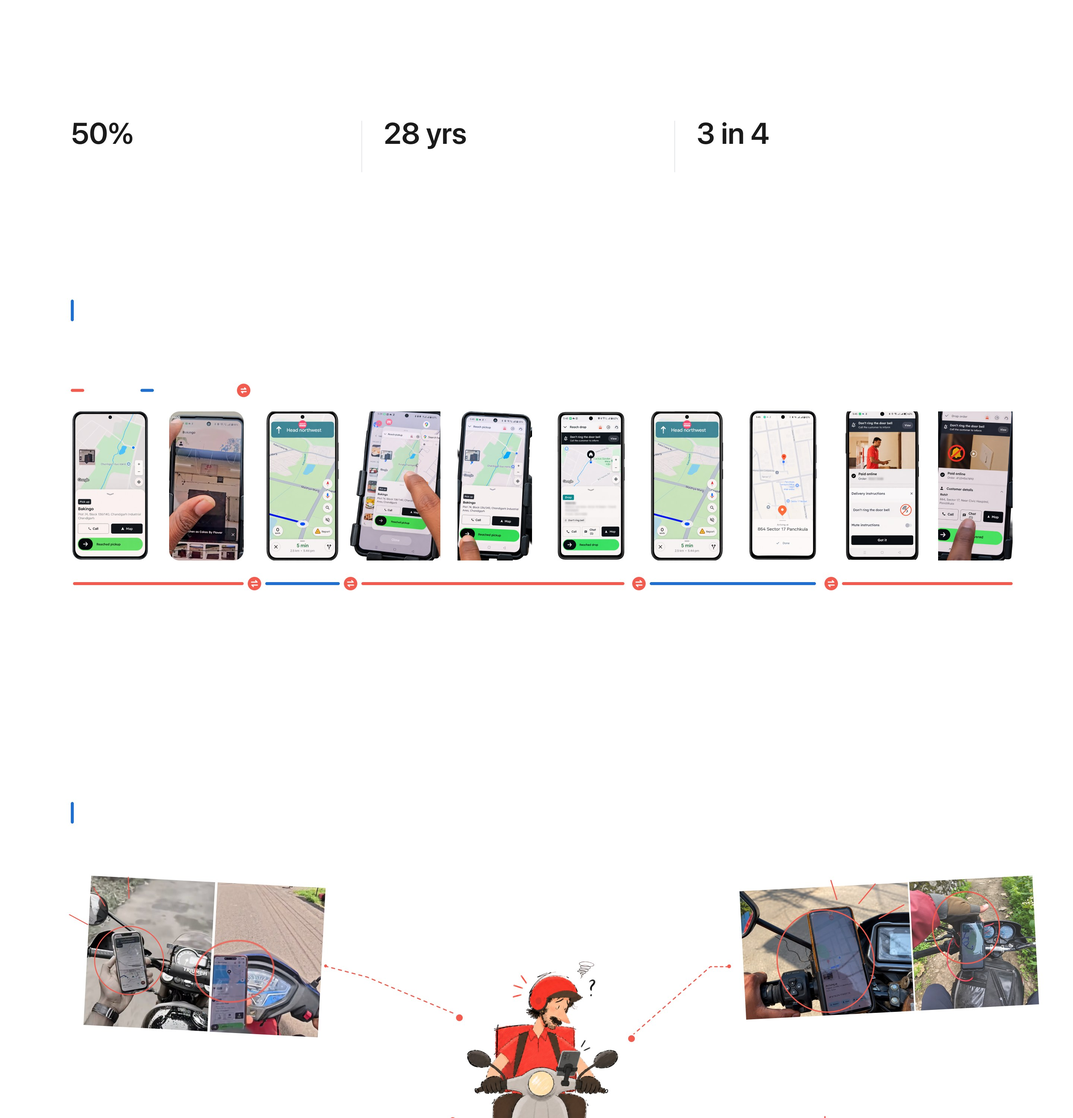
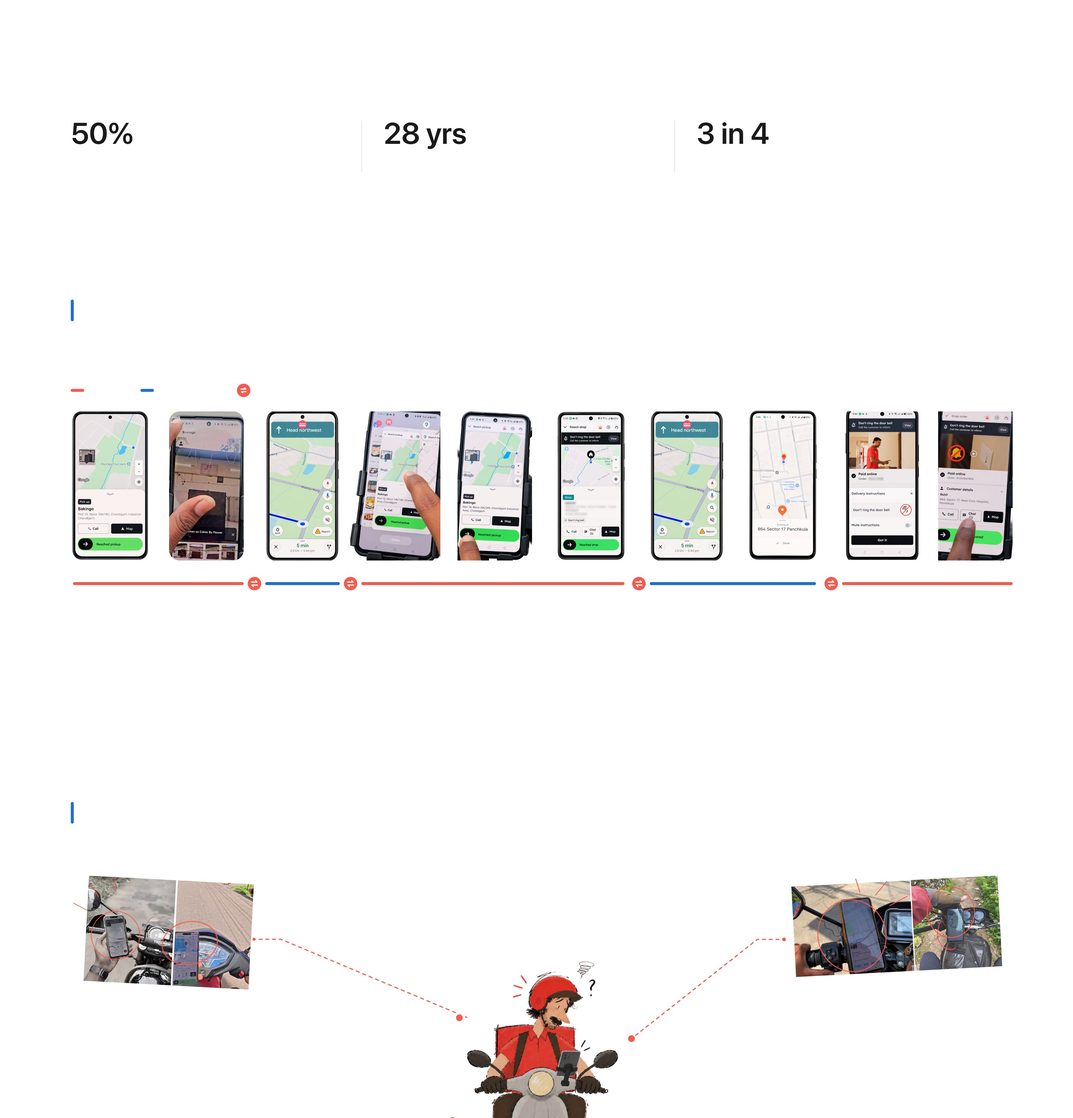
KAI: smaller On-Road photos, persona labels level with their scales
Rebuilt from Desktop 7 (1440 x 11862). On-Road photo pairs at 70% with
right space; persona chart labels on one line, aligned and centred on
their scale lines.

Changed region(s): [[0.6875, 0.775, 0.9688, 0.93], [0.0625, 0.775, 0.3125, 0.93], [0.4375, 0.868, 0.5625, 1.0]]

diff --git a/kai.html b/kai.html
@@ -6,14 +6,14 @@
 <script src="cursor.js"></script>
 <link rel="stylesheet" href="https://fonts.googleapis.com/css2?family=Raleway:ital,wght@0,400;0,500;0,600;0,700;1,400&family=Inter:wght@400;500;600&display=swap">
 <style>
-/* Exact copy of Figma "Desktop - 7" (TJdzXFw3OL2XGe9txX3lkp, node 60:94), 1440 x 11899, rebuilt 2026-10-29.
+/* Exact copy of Figma "Desktop - 7" (TJdzXFw3OL2XGe9txX3lkp, node 60:94), 1440 x 11862, rebuilt 2026-10-29.
    Background tiles = every non-text layer, exported from Figma at 2x.
    Every Raleway text layer is live HTML at its Figma position, font, size and colour.
    The whole canvas scales to the window width; nothing reflows. */
 html,body{margin:0;background:#fff}
 body{font-family:"Raleway",sans-serif;-webkit-font-smoothing:antialiased;font-variant-numeric:lining-nums;overflow-x:hidden}
 .cv{position:relative;width:100%;overflow:hidden}
-.canvas{position:absolute;left:0;top:0;width:1440px;height:11899px;overflow:hidden;background:#fff;transform-origin:0 0}
+.canvas{position:absolute;left:0;top:0;width:1440px;height:11862px;overflow:hidden;background:#fff;transform-origin:0 0}
 .tile{position:absolute;left:0;width:1440px;display:block}
 .t{position:absolute;margin:0;line-height:normal;font-weight:400;color:#000;white-space:pre-wrap;overflow-wrap:normal}
 .t span{font-family:inherit}
@@ -87,24 +87,24 @@ video{position:absolute;display:block;object-fit:cover;background:#fff}
 
 <div class="cv" id="cv">
 <div class="canvas" id="canvas">
-<img class="tile" src="images/kai-figma/t0.jpg?v=1029c" style="top:0px;height:1500px" alt="">
-<img class="tile" src="images/kai-figma/t1.jpg?v=1029" style="top:1500px;height:1500px" alt="">
-<img class="tile" src="images/kai-figma/t2.jpg?v=1029" style="top:3000px;height:1500px" alt="" loading="lazy">
-<img class="tile" src="images/kai-figma/t3.jpg?v=1029" style="top:4500px;height:1500px" alt="" loading="lazy">
-<img class="tile" src="images/kai-figma/t4.jpg?v=1029" style="top:6000px;height:1500px" alt="" loading="lazy">
-<img class="tile" src="images/kai-figma/t5.jpg?v=1029" style="top:7500px;height:1500px" alt="" loading="lazy">
-<img class="tile" src="images/kai-figma/t6.jpg?v=1029b" style="top:9000px;height:1500px" alt="" loading="lazy">
-<img class="tile" src="images/kai-figma/t7.jpg?v=1029" style="top:10500px;height:1399px" alt="" loading="lazy">
-<video src="images/kai-figma/kai-speaks.mp4" muted loop playsinline autoplay preload="metadata" style="left:261px;top:6551px;width:918px;height:516px;border-radius:14px;box-shadow:3px 4px 30.4px -11px rgba(0,0,0,0.25)" aria-label="KAI speaking and listening"></video>
-<div class="scr" style="left:229px;top:10110.2px;width:243.6px;height:530px;border-radius:33.7px"><video src="images/kai-figma/autozoom.mp4" muted loop playsinline autoplay preload="metadata"></video><div class="cue" style="left:-3.86px;top:360.1px;width:251.3px;height:124.1px;--b1:9.31px;--b2:12.41px"><i class="aura"><b></b></i><i class="prism"></i></div></div>
-<img class="ov" src="images/kai-figma/ui-az.png?v=1029b" style="left:229px;top:10110.2px;width:243.6px;height:530px" alt="KAI map, zooming out on a long stretch during the ride">
-<div class="scr" style="left:881px;top:10110.2px;width:243.6px;height:530px;border-radius:33.7px"><video src="images/kai-figma/route-preview.mp4" muted loop playsinline autoplay preload="metadata"></video><div class="cue" style="left:-3.86px;top:360.1px;width:252.46px;height:124.67px;--b1:9.35px;--b2:12.47px"><i class="aura"><b></b></i><i class="prism"></i></div></div>
-<img class="ov" src="images/kai-figma/ui-pv.png?v=1029b" style="left:881px;top:10110.2px;width:243.6px;height:530px" alt="KAI map, route overview before the ride">
-<video src="images/kai-figma/rider-film.mp4" muted loop playsinline autoplay preload="metadata" style="left:95px;top:10891px;width:1212px;height:611px" aria-label="Rider using KAI"></video>
-<div class="scr" style="left:846.8px;top:8679px;width:221.6px;height:480.8px;border-radius:31.04px"><div class="cue" style="left:-3.54px;top:327.62px;width:228.59px;height:112.88px;--b1:8.47px;--b2:11.29px"><i class="aura"><b></b></i><i class="prism"></i></div></div>
-<img class="ov" src="images/kai-figma/ui-day.png?v=1029b" style="left:846.8px;top:8679px;width:221.6px;height:480.8px" alt="KAI listening, day">
-<div class="scr" style="left:848px;top:9359.2px;width:225.7px;height:489.9px;border-radius:31.62px"><div class="cue" style="left:0.02px;top:335.49px;width:225.7px;height:111.46px;--b1:8.36px;--b2:11.15px"><i class="aura"><b></b></i><i class="prism"></i></div></div>
-<img class="ov" src="images/kai-figma/ui-night.png?v=1029b" style="left:848px;top:9359.2px;width:225.7px;height:489.9px" alt="KAI listening, night">
+<img class="tile" src="images/kai-figma/t0.jpg?v=1029d" style="top:0px;height:1500px" alt="">
+<img class="tile" src="images/kai-figma/t1.jpg?v=1029d" style="top:1500px;height:1500px" alt="">
+<img class="tile" src="images/kai-figma/t2.jpg?v=1029d" style="top:3000px;height:1500px" alt="" loading="lazy">
+<img class="tile" src="images/kai-figma/t3.jpg?v=1029d" style="top:4500px;height:1500px" alt="" loading="lazy">
+<img class="tile" src="images/kai-figma/t4.jpg?v=1029d" style="top:6000px;height:1500px" alt="" loading="lazy">
+<img class="tile" src="images/kai-figma/t5.jpg?v=1029d" style="top:7500px;height:1500px" alt="" loading="lazy">
+<img class="tile" src="images/kai-figma/t6.jpg?v=1029d" style="top:9000px;height:1500px" alt="" loading="lazy">
+<img class="tile" src="images/kai-figma/t7.jpg?v=1029d" style="top:10500px;height:1362px" alt="" loading="lazy">
+<video src="images/kai-figma/kai-speaks.mp4" muted loop playsinline autoplay preload="metadata" style="left:261px;top:6514px;width:918px;height:516px;border-radius:14px;box-shadow:3px 4px 30.4px -11px rgba(0,0,0,0.25)" aria-label="KAI speaking and listening"></video>
+<div class="scr" style="left:229px;top:10073.2px;width:243.6px;height:530px;border-radius:33.7px"><video src="images/kai-figma/autozoom.mp4" muted loop playsinline autoplay preload="metadata"></video><div class="cue" style="left:-3.9px;top:360.1px;width:251.3px;height:124.1px;--b1:9.31px;--b2:12.41px"><i class="aura"><b></b></i><i class="prism"></i></div></div>
+<img class="ov" src="images/kai-figma/ui-az.png?v=1029b" style="left:229px;top:10073.2px;width:243.6px;height:530px" alt="KAI map, zooming out on a long stretch during the ride">
+<div class="scr" style="left:881px;top:10073.2px;width:243.6px;height:530px;border-radius:33.7px"><video src="images/kai-figma/route-preview.mp4" muted loop playsinline autoplay preload="metadata"></video><div class="cue" style="left:-3.9px;top:360.1px;width:252.5px;height:124.7px;--b1:9.35px;--b2:12.47px"><i class="aura"><b></b></i><i class="prism"></i></div></div>
+<img class="ov" src="images/kai-figma/ui-pv.png?v=1029b" style="left:881px;top:10073.2px;width:243.6px;height:530px" alt="KAI map, route overview before the ride">
+<video src="images/kai-figma/rider-film.mp4" muted loop playsinline autoplay preload="metadata" style="left:95px;top:10854px;width:1212px;height:611px" aria-label="Rider using KAI"></video>
+<div class="scr" style="left:846.8px;top:8642px;width:221.6px;height:480.8px;border-radius:31px"><div class="cue" style="left:-3.5px;top:327.6px;width:228.6px;height:112.9px;--b1:8.47px;--b2:11.29px"><i class="aura"><b></b></i><i class="prism"></i></div></div>
+<img class="ov" src="images/kai-figma/ui-day.png?v=1029b" style="left:846.8px;top:8642px;width:221.6px;height:480.8px" alt="KAI listening, day">
+<div class="scr" style="left:848px;top:9322.2px;width:225.7px;height:489.9px;border-radius:31.6px"><div class="cue" style="left:0px;top:335.5px;width:225.7px;height:111.5px;--b1:8.36px;--b2:11.15px"><i class="aura"><b></b></i><i class="prism"></i></div></div>
+<img class="ov" src="images/kai-figma/ui-night.png?v=1029b" style="left:848px;top:9322.2px;width:225.7px;height:489.9px" alt="KAI listening, night">
 <p class="t nw" style="left:770px;top:112px;width:112px;"><span class="k49">KAI</span></p>
 <p class="t" style="left:770px;top:194px;width:432px;"><span class="k48">Voice-supported navigation for delivery riders</span></p>
 <p class="t" style="left:95px;top:752px;width:227px;"><span class="k28">Role</span></p>
@@ -132,144 +132,144 @@ video{position:absolute;display:block;object-fit:cover;background:#fff}
 <p class="t" style="left:1119px;top:2345px;width:228px;"><span class="k19">Instructions and customer details appear. The rider swipes “Order delivered”.</span></p>
 <p class="t nw" style="left:115px;top:2565px;width:420px;"><span class="k0">On-Road Rider Behaviour</span></p>
 <p class="t" style="left:95px;top:2619px;width:1100px;"><span class="k1">Primary and secondary research into rider behaviour, and the demands it puts on navigation.</span></p>
-<p class="t" style="left:112px;top:2898px;width:300px;"><span class="k30">01</span><span class="k31"> / Repeated glances</span></p>
-<p class="t" style="left:1027px;top:2898px;width:300px;"><span class="k30">02</span><span class="k31"> / Poor map visibility</span></p>
-<p class="t" style="left:1027px;top:3256px;width:316px;"><span class="k30">04</span><span class="k31"> / Repeated zoom adjustments</span></p>
-<p class="t" style="left:112px;top:3257px;width:300px;"><span class="k30">03</span><span class="k31"> / Adapting to audio needs </span></p>
-<p class="t nw" style="left:115px;top:3444px;width:197px;"><span class="k0">Key insights</span></p>
-<p class="t" style="left:231px;top:3561px;width:236px;"><span class="k41">City unfamiliarity</span></p>
-<p class="t" style="left:1081px;top:3561px;width:236px;"><span class="k41">Visual distraction</span></p>
-<p class="t" style="left:656px;top:3561.1px;width:236px;"><span class="k41">Physical interaction</span></p>
-<p class="t" style="left:231px;top:3593px;width:236px;"><span class="k25">Many delivery riders are migrants. Riders new to a city may not yet have a mental map of its roads and landmarks.</span></p>
-<p class="t" style="left:1081px;top:3593px;width:236px;"><span class="k25">Map clutter and poor screen visibility make it harder to pick out the information needed at a glance.</span></p>
-<p class="t" style="left:656px;top:3593.1px;width:236px;"><span class="k25">Tapping, zooming and switching between apps mean riders have to keep operating the phone while navigating.</span></p>
-<p class="t" style="left:231px;top:3758px;width:236px;"><span class="k41">Navigation uncertainty</span></p>
-<p class="t" style="left:656px;top:3758px;width:236px;"><span class="k41">Audio limitations</span></p>
-<p class="t" style="left:1081px;top:3758px;width:236px;"><span class="k41">Work pressure</span></p>
-<p class="t" style="left:231px;top:3790px;width:236px;"><span class="k25">Riders need to interpret upcoming manoeuvres and confirm they are following the right route.</span></p>
-<p class="t" style="left:656px;top:3790px;width:236px;"><span class="k25">Some riders use one earbud or phone vibration to catch turn cues when spoken directions are difficult to hear.</span></p>
-<p class="t" style="left:1081px;top:3790px;width:236px;"><span class="k25">Delivery targets and ratings create pressure to complete orders quickly.</span></p>
-<p class="t nw" style="left:115px;top:4062px;width:271px;"><span class="k0">Design direction</span></p>
-<p class="t" style="left:95px;top:4119px;width:1025px;"><span class="k1">The research pointed to two areas to focus on: reducing the need to interact with the phone and making navigation easier to follow.</span></p>
-<p class="t" style="left:95px;top:4185px;width:540px;"><span class="k32">01</span><span class="k33"> / Reduce manual interaction</span></p>
-<p class="t" style="left:735px;top:4185px;width:540px;"><span class="k32">02</span><span class="k33"> / Simplify navigation information</span></p>
-<p class="t" style="left:95px;top:4233px;width:560px;"><span class="k34">Limit the need to tap, swipe, zoom and switch between apps while navigating. Use voice guidance to communicate key instructions when they’re needed.</span></p>
-<p class="t" style="left:735px;top:4233px;width:560px;"><span class="k34">Make the next manoeuvre easier to identify by prioritising relevant route information, useful landmarks and a clearer map.</span></p>
-<p class="t" style="left:115px;top:4465px;width:1200px;"><span class="k0">Exploring ways to navigate</span></p>
-<p class="t" style="left:868px;top:4554px;width:330px;"><span class="k2">Why phone + voice?</span></p>
-<p class="t" style="left:663px;top:4631px;width:380px;"><span class="k35">Evaluation Criteria</span></p>
-<p class="t" style="left:663px;top:4655px;width:380px;"><span class="k36">Cost
+<p class="t" style="left:112px;top:2834px;width:300px;"><span class="k30">01</span><span class="k31"> / Repeated glances</span></p>
+<p class="t" style="left:1086px;top:2840px;width:300px;"><span class="k30">02</span><span class="k31"> / Poor map visibility</span></p>
+<p class="t" style="left:112px;top:3189px;width:300px;"><span class="k30">03</span><span class="k31"> / Adapting to audio needs </span></p>
+<p class="t" style="left:1077px;top:3204px;width:316px;"><span class="k30">04</span><span class="k31"> / Repeated zoom adjustments</span></p>
+<p class="t nw" style="left:115px;top:3407px;width:197px;"><span class="k0">Key insights</span></p>
+<p class="t" style="left:231px;top:3524px;width:236px;"><span class="k41">City unfamiliarity</span></p>
+<p class="t" style="left:1081px;top:3524px;width:236px;"><span class="k41">Visual distraction</span></p>
+<p class="t" style="left:656px;top:3524.1px;width:236px;"><span class="k41">Physical interaction</span></p>
+<p class="t" style="left:231px;top:3556px;width:236px;"><span class="k25">Many delivery riders are migrants. Riders new to a city may not yet have a mental map of its roads and landmarks.</span></p>
+<p class="t" style="left:1081px;top:3556px;width:236px;"><span class="k25">Map clutter and poor screen visibility make it harder to pick out the information needed at a glance.</span></p>
+<p class="t" style="left:656px;top:3556.1px;width:236px;"><span class="k25">Tapping, zooming and switching between apps mean riders have to keep operating the phone while navigating.</span></p>
+<p class="t" style="left:231px;top:3721px;width:236px;"><span class="k41">Navigation uncertainty</span></p>
+<p class="t" style="left:656px;top:3721px;width:236px;"><span class="k41">Audio limitations</span></p>
+<p class="t" style="left:1081px;top:3721px;width:236px;"><span class="k41">Work pressure</span></p>
+<p class="t" style="left:231px;top:3753px;width:236px;"><span class="k25">Riders need to interpret upcoming manoeuvres and confirm they are following the right route.</span></p>
+<p class="t" style="left:656px;top:3753px;width:236px;"><span class="k25">Some riders use one earbud or phone vibration to catch turn cues when spoken directions are difficult to hear.</span></p>
+<p class="t" style="left:1081px;top:3753px;width:236px;"><span class="k25">Delivery targets and ratings create pressure to complete orders quickly.</span></p>
+<p class="t nw" style="left:115px;top:4025px;width:271px;"><span class="k0">Design direction</span></p>
+<p class="t" style="left:95px;top:4082px;width:1025px;"><span class="k1">The research pointed to two areas to focus on: reducing the need to interact with the phone and making navigation easier to follow.</span></p>
+<p class="t" style="left:95px;top:4148px;width:540px;"><span class="k32">01</span><span class="k33"> / Reduce manual interaction</span></p>
+<p class="t" style="left:735px;top:4148px;width:540px;"><span class="k32">02</span><span class="k33"> / Simplify navigation information</span></p>
+<p class="t" style="left:95px;top:4196px;width:560px;"><span class="k34">Limit the need to tap, swipe, zoom and switch between apps while navigating. Use voice guidance to communicate key instructions when they’re needed.</span></p>
+<p class="t" style="left:735px;top:4196px;width:560px;"><span class="k34">Make the next manoeuvre easier to identify by prioritising relevant route information, useful landmarks and a clearer map.</span></p>
+<p class="t" style="left:115px;top:4428px;width:1200px;"><span class="k0">Exploring ways to navigate</span></p>
+<p class="t" style="left:868px;top:4517px;width:330px;"><span class="k2">Why phone + voice?</span></p>
+<p class="t" style="left:663px;top:4594px;width:380px;"><span class="k35">Evaluation Criteria</span></p>
+<p class="t" style="left:663px;top:4618px;width:380px;"><span class="k36">Cost
 Safety
 Ease of use </span></p>
-<p class="t" style="left:92px;top:4731px;width:116px;"><span class="k37">Phone + Audio</span></p>
-<p class="t" style="left:272px;top:4731px;width:143px;"><span class="k37">Phone + wearable (haptics)</span></p>
-<p class="t" style="left:434px;top:4731px;width:169px;"><span class="k37">Audio + wearable (haptics)</span></p>
-<p class="t" style="left:868px;top:4933px;width:472px;"><span class="k42">Voice guidance reduces screen checks, but riders still need the map to identify the right road at complex junctions.</span></p>
-<p class="t" style="left:92px;top:4942px;width:217px;"><span class="k37">Audio(existing)  + phone</span></p>
-<p class="t" style="left:292px;top:4942px;width:217px;"><span class="k37">Phone + Add on to Phone + Audio</span></p>
-<p class="t nw" style="left:92px;top:5141px;width:516px;"><span class="k43">Designing KAI’s voice</span></p>
-<p class="t" style="left:115px;top:5267px;width:620px;"><span class="k15">VUI PERSONA</span></p>
-<p class="t" style="left:755px;top:5267px;width:591px;"><span class="k15">VOICE DESIGN DECISIONS </span></p>
-<p class="t" style="left:95px;top:5320px;width:580px;"><span class="k16">Delivery riders work under constant time pressure. KAI provides calm, concise guidance without rushing, judging, or overwhelming them.</span></p>
-<p class="t nw" style="left:735px;top:5402px;width:17px;"><span class="k46">01</span></p>
-<p class="t nw" style="left:1052px;top:5402px;width:19px;"><span class="k46">02</span></p>
-<p class="t" style="left:524px;top:5426px;width:79px;"><span class="k3">DETAILED</span></p>
-<p class="t" style="left:139px;top:5427px;width:65px;"><span class="k3">CONCISE</span></p>
-<p class="t nw" style="left:735px;top:5430px;width:282px;"><span class="k47">Speak only when it matters</span></p>
-<p class="t nw" style="left:1052px;top:5430px;width:264px;"><span class="k47">Reroute without pressure</span></p>
-<p class="t" style="left:735px;top:5469px;width:285px;"><span class="k34">Give timely directions. Stay silent when no instruction is needed.</span></p>
-<p class="t" style="left:1052px;top:5469px;width:285px;"><span class="k34">Avoid repeated corrections when riders take a different route.</span></p>
-<p class="t" style="left:523.8px;top:5485.7px;width:46px;"><span class="k3">CALM</span></p>
-<p class="t" style="left:137.1px;top:5485.9px;width:66.8px;"><span class="k3">NEUTRAL</span></p>
-<p class="t" style="left:95px;top:5546px;width:125px;"><span class="k3">LANDMARK-LED</span></p>
-<p class="t" style="left:524.5px;top:5546px;width:83.5px;"><span class="k3">ROAD-LED</span></p>
-<p class="t" style="left:735px;top:5557px;width:21px;"><span class="k46">03</span></p>
-<p class="t" style="left:1052px;top:5557px;width:21px;"><span class="k46">04</span></p>
-<p class="t nw" style="left:735px;top:5585px;width:241px;"><span class="k47">Warmer when stressed</span></p>
-<p class="t nw" style="left:1052px;top:5585px;width:281px;"><span class="k47">Let riders control guidance</span></p>
-<p class="t" style="left:523.5px;top:5604.6px;width:118.5px;"><span class="k3">CONTEXT AWARE</span></p>
-<p class="t" style="left:110px;top:5606px;width:109px;"><span class="k3">CONTINUOUS</span></p>
-<p class="t" style="left:735px;top:5624px;width:285px;"><span class="k34">Use short, companion-like phrases in stressful situations.</span></p>
-<p class="t" style="left:1052px;top:5624px;width:285px;"><span class="k34">Allow riders to mute guidance when they know the route.</span></p>
-<p class="t" style="left:142.7px;top:5673px;width:32.1px;"><span class="k4">KAI</span></p>
-<p class="t" style="left:193px;top:5673px;width:119px;"><span class="k4">Google Maps</span></p>
-<p class="t nw" style="left:115px;top:5854px;width:337px;"><span class="k5">VUI Interaction Flow</span></p>
-<p class="t nw" style="left:849px;top:5873.7px;width:34px;"><span class="k11">Rider</span></p>
-<p class="t nw" style="left:969px;top:5873.7px;width:71px;"><span class="k11">KAI speaks</span></p>
-<p class="t nw" style="left:1126px;top:5873.7px;width:61px;"><span class="k11">KAI silent</span></p>
-<p class="t nw" style="left:1273px;top:5873.7px;width:72px;"><span class="k11">KAI checks</span></p>
-<p class="t" style="left:1058px;top:5957px;width:275px;"><span class="k10">Recalculates without repeated prompts</span></p>
-<p class="t nw" style="left:946.6px;top:5971px;width:22px;"><span class="k12">Yes</span></p>
-<p class="t" style="left:518px;top:6005px;width:248px;"><span class="k7">Gives one useful direction</span></p>
-<p class="t" style="left:1058px;top:6007px;width:275px;"><span class="k11">Never “You missed your turn”.</span></p>
-<p class="t" style="left:95px;top:6010.5px;width:170px;"><span class="k6">Route Deviation</span></p>
-<p class="t" style="left:298px;top:6016px;width:138px;"><span class="k7">Rider leaves the route</span></p>
-<p class="t" style="left:888.6px;top:6020px;width:100px;text-align:center;"><span class="k9">Keeps own
+<p class="t" style="left:92px;top:4694px;width:116px;"><span class="k37">Phone + Audio</span></p>
+<p class="t" style="left:272px;top:4694px;width:143px;"><span class="k37">Phone + wearable (haptics)</span></p>
+<p class="t" style="left:434px;top:4694px;width:169px;"><span class="k37">Audio + wearable (haptics)</span></p>
+<p class="t" style="left:868px;top:4896px;width:472px;"><span class="k42">Voice guidance reduces screen checks, but riders still need the map to identify the right road at complex junctions.</span></p>
+<p class="t" style="left:92px;top:4905px;width:217px;"><span class="k37">Audio(existing)  + phone</span></p>
+<p class="t" style="left:292px;top:4905px;width:217px;"><span class="k37">Phone + Add on to Phone + Audio</span></p>
+<p class="t nw" style="left:92px;top:5104px;width:516px;"><span class="k43">Designing KAI’s voice</span></p>
+<p class="t" style="left:115px;top:5230px;width:620px;"><span class="k15">VUI PERSONA</span></p>
+<p class="t" style="left:755px;top:5230px;width:591px;"><span class="k15">VOICE DESIGN DECISIONS </span></p>
+<p class="t" style="left:95px;top:5283px;width:580px;"><span class="k16">Delivery riders work under constant time pressure. KAI provides calm, concise guidance without rushing, judging, or overwhelming them.</span></p>
+<p class="t nw" style="left:735px;top:5365px;width:17px;"><span class="k46">01</span></p>
+<p class="t nw" style="left:1052px;top:5365px;width:19px;"><span class="k46">02</span></p>
+<p class="t nw" style="left:524px;top:5385.6px;"><span class="k3">DETAILED</span></p>
+<p class="t nw" style="left:4px;top:5385.6px;width:200px;text-align:right;"><span class="k3">CONCISE</span></p>
+<p class="t nw" style="left:735px;top:5393px;width:282px;"><span class="k47">Speak only when it matters</span></p>
+<p class="t nw" style="left:1052px;top:5393px;width:264px;"><span class="k47">Reroute without pressure</span></p>
+<p class="t" style="left:735px;top:5432px;width:285px;"><span class="k34">Give timely directions. Stay silent when no instruction is needed.</span></p>
+<p class="t" style="left:1052px;top:5432px;width:285px;"><span class="k34">Avoid repeated corrections when riders take a different route.</span></p>
+<p class="t nw" style="left:524px;top:5445.2px;"><span class="k3">CALM</span></p>
+<p class="t nw" style="left:4px;top:5445.2px;width:200px;text-align:right;"><span class="k3">NEUTRAL</span></p>
+<p class="t nw" style="left:4px;top:5504.9px;width:200px;text-align:right;"><span class="k3">LANDMARK-LED</span></p>
+<p class="t nw" style="left:524px;top:5504.9px;"><span class="k3">ROAD-LED</span></p>
+<p class="t" style="left:735px;top:5520px;width:21px;"><span class="k46">03</span></p>
+<p class="t" style="left:1052px;top:5520px;width:21px;"><span class="k46">04</span></p>
+<p class="t nw" style="left:735px;top:5548px;width:241px;"><span class="k47">Warmer when stressed</span></p>
+<p class="t nw" style="left:1052px;top:5548px;width:281px;"><span class="k47">Let riders control guidance</span></p>
+<p class="t nw" style="left:524px;top:5564.6px;"><span class="k3">CONTEXT AWARE</span></p>
+<p class="t nw" style="left:4px;top:5564.6px;width:200px;text-align:right;"><span class="k3">CONTINUOUS</span></p>
+<p class="t" style="left:735px;top:5587px;width:285px;"><span class="k34">Use short, companion-like phrases in stressful situations.</span></p>
+<p class="t" style="left:1052px;top:5587px;width:285px;"><span class="k34">Allow riders to mute guidance when they know the route.</span></p>
+<p class="t" style="left:142.7px;top:5636px;width:32.1px;"><span class="k4">KAI</span></p>
+<p class="t" style="left:193px;top:5636px;width:119px;"><span class="k4">Google Maps</span></p>
+<p class="t nw" style="left:115px;top:5817px;width:337px;"><span class="k5">VUI Interaction Flow</span></p>
+<p class="t nw" style="left:849px;top:5836.7px;width:34px;"><span class="k11">Rider</span></p>
+<p class="t nw" style="left:969px;top:5836.7px;width:71px;"><span class="k11">KAI speaks</span></p>
+<p class="t nw" style="left:1126px;top:5836.7px;width:61px;"><span class="k11">KAI silent</span></p>
+<p class="t nw" style="left:1273px;top:5836.7px;width:72px;"><span class="k11">KAI checks</span></p>
+<p class="t" style="left:1058px;top:5920px;width:275px;"><span class="k10">Recalculates without repeated prompts</span></p>
+<p class="t nw" style="left:946.6px;top:5934px;width:22px;"><span class="k12">Yes</span></p>
+<p class="t" style="left:518px;top:5968px;width:248px;"><span class="k7">Gives one useful direction</span></p>
+<p class="t" style="left:1058px;top:5970px;width:275px;"><span class="k11">Never “You missed your turn”.</span></p>
+<p class="t" style="left:95px;top:5973.5px;width:170px;"><span class="k6">Route Deviation</span></p>
+<p class="t" style="left:298px;top:5979px;width:138px;"><span class="k7">Rider leaves the route</span></p>
+<p class="t" style="left:888.6px;top:5983px;width:100px;text-align:center;"><span class="k9">Keeps own
 way?</span></p>
-<p class="t" style="left:518px;top:6033px;width:248px;"><span class="k8">“Take the next left. </span></p>
-<p class="t" style="left:95px;top:6037.5px;width:175px;"><span class="k13">02 / REROUTE WITHOUT PRESSURE</span></p>
-<p class="t" style="left:1058px;top:6075px;width:275px;"><span class="k10">Back on route</span></p>
-<p class="t nw" style="left:946.6px;top:6090px;width:18px;"><span class="k12">No</span></p>
-<p class="t" style="left:718px;top:6161px;width:268px;"><span class="k7">Speaks only for</span></p>
-<p class="t" style="left:95px;top:6166.5px;width:170px;"><span class="k6">Quiet mode</span></p>
-<p class="t" style="left:508px;top:6170.5px;width:138px;"><span class="k7">Confirms once</span></p>
-<p class="t" style="left:298px;top:6172px;width:138px;"><span class="k7">Says mute while KAI speaks</span></p>
-<p class="t" style="left:1058px;top:6172px;width:275px;"><span class="k7">Stays quiet until pickup or guidance is resumed by the rider (“hello Kai”)</span></p>
-<p class="t" style="left:718px;top:6189px;width:268px;"><span class="k8">Blocked road · pickup side · arrival</span></p>
-<p class="t" style="left:95px;top:6193.5px;width:175px;"><span class="k13">04 / LET RIDERS CONTROL GUIDANCE</span></p>
-<p class="t" style="left:508px;top:6198.5px;width:138px;"><span class="k8">“Okay, quiet.”</span></p>
-<p class="t" style="left:1058px;top:6302px;width:275px;"><span class="k10">Continues on new route. KAI stays silent.</span></p>
-<p class="t nw" style="left:946.6px;top:6305px;width:22px;"><span class="k12">Yes</span></p>
-<p class="t" style="left:518px;top:6339px;width:248px;"><span class="k7">Problem and fix, in one line</span></p>
-<p class="t" style="left:95px;top:6344.5px;width:170px;"><span class="k6">Road blocked ahead</span></p>
-<p class="t" style="left:298px;top:6350px;width:138px;"><span class="k14">Rider encounters a roadblock</span></p>
-<p class="t" style="left:888.6px;top:6354px;width:100px;text-align:center;"><span class="k9">Takes the
+<p class="t" style="left:518px;top:5996px;width:248px;"><span class="k8">“Take the next left. </span></p>
+<p class="t" style="left:95px;top:6000.5px;width:175px;"><span class="k13">02 / REROUTE WITHOUT PRESSURE</span></p>
+<p class="t" style="left:1058px;top:6038px;width:275px;"><span class="k10">Back on route</span></p>
+<p class="t nw" style="left:946.6px;top:6053px;width:18px;"><span class="k12">No</span></p>
+<p class="t" style="left:718px;top:6124px;width:268px;"><span class="k7">Speaks only for</span></p>
+<p class="t" style="left:95px;top:6129.5px;width:170px;"><span class="k6">Quiet mode</span></p>
+<p class="t" style="left:508px;top:6133.5px;width:138px;"><span class="k7">Confirms once</span></p>
+<p class="t" style="left:298px;top:6135px;width:138px;"><span class="k7">Says mute while KAI speaks</span></p>
+<p class="t" style="left:1058px;top:6135px;width:275px;"><span class="k7">Stays quiet until pickup or guidance is resumed by the rider (“hello Kai”)</span></p>
+<p class="t" style="left:718px;top:6152px;width:268px;"><span class="k8">Blocked road · pickup side · arrival</span></p>
+<p class="t" style="left:95px;top:6156.5px;width:175px;"><span class="k13">04 / LET RIDERS CONTROL GUIDANCE</span></p>
+<p class="t" style="left:508px;top:6161.5px;width:138px;"><span class="k8">“Okay, quiet.”</span></p>
+<p class="t" style="left:1058px;top:6265px;width:275px;"><span class="k10">Continues on new route. KAI stays silent.</span></p>
+<p class="t nw" style="left:946.6px;top:6268px;width:22px;"><span class="k12">Yes</span></p>
+<p class="t" style="left:518px;top:6302px;width:248px;"><span class="k7">Problem and fix, in one line</span></p>
+<p class="t" style="left:95px;top:6307.5px;width:170px;"><span class="k6">Road blocked ahead</span></p>
+<p class="t" style="left:298px;top:6313px;width:138px;"><span class="k14">Rider encounters a roadblock</span></p>
+<p class="t" style="left:888.6px;top:6317px;width:100px;text-align:center;"><span class="k9">Takes the
 left?</span></p>
-<p class="t" style="left:518px;top:6367px;width:248px;"><span class="k8">“Road blocked ahead. Let’s take the next left.”</span></p>
-<p class="t" style="left:95px;top:6372px;width:137px;"><span class="k13">03 / WARMER WHEN STRESSED</span></p>
-<p class="t" style="left:1058px;top:6409px;width:275px;"><span class="k10">KAI recalculates silently.</span></p>
-<p class="t nw" style="left:946.6px;top:6424px;width:18px;"><span class="k12">No</span></p>
-<p class="t nw" style="left:92px;top:7202.9px;width:464px;"><span class="k43">Designing the map</span></p>
-<p class="t nw" style="left:115px;top:7328.9px;width:195px;"><span class="k0">Wireframes</span></p>
-<p class="t" style="left:95px;top:7385.9px;width:900px;"><span class="k1">Five steps from Google Maps as riders use it today to the KAI screen. Each step removes or moves one thing.</span></p>
-<p class="t" style="left:111px;top:7930.9px;width:190px;"><span class="k26">Google Maps today - Baseline</span></p>
-<p class="t" style="left:372px;top:7930.9px;width:190px;"><span class="k26">Fewer labels - Less clutter</span></p>
-<p class="t" style="left:894px;top:7930.9px;width:190px;"><span class="k26">Icons back on right - Familiarity</span></p>
-<p class="t" style="left:1155px;top:7930.9px;width:190px;"><span class="k26">ETA reduced - KAI voice layer</span></p>
-<p class="t" style="left:633px;top:7930.9px;width:190px;"><span class="k26">Left side icons - Thumb reach</span></p>
-<p class="t nw" style="left:115px;top:8130.9px;width:124px;"><span class="k0">Final UI</span></p>
-<p class="t" style="left:95px;top:8187.9px;width:900px;"><span class="k1">The riding screen in day and night modes, and mounted on the bike. The labels mark the eight design decisions.</span></p>
-<p class="t" style="left:672px;top:8550.9px;width:280px;"><span class="k23">01</span><span class="k24"> / One-Tap Zomato Access</span></p>
-<p class="t" style="left:672px;top:8576.9px;width:280px;"><span class="k25">Returns riders to their active order quickly.</span></p>
-<p class="t" style="left:1122px;top:8872.9px;width:260px;"><span class="k23">03</span><span class="k24"> / Fewer Map Labels</span></p>
-<p class="t" style="left:325px;top:8889.9px;width:280px;"><span class="k23">02</span><span class="k24"> / High-Contrast Cyan Route</span></p>
-<p class="t" style="left:1122px;top:8898.9px;width:260px;"><span class="k25">Less clutter keeps attention on the route.</span></p>
-<p class="t" style="left:325px;top:8915.9px;width:280px;"><span class="k25">Stands out against the dark map at night.</span></p>
-<p class="t" style="left:1150px;top:9211.1px;width:255px;"><span class="k23">05</span><span class="k24"> / Purple Listening Cue</span></p>
-<p class="t" style="left:746.8px;top:9231.9px;width:260px;"><span class="k23">04</span><span class="k24"> / Destination Over ETA</span></p>
-<p class="t" style="left:1150px;top:9237.1px;width:255px;"><span class="k25">Distinguishes KAI’s listening state from the cyan route.</span></p>
-<p class="t" style="left:746.8px;top:9257.9px;width:260px;"><span class="k25">Keeps the delivery task in focus.</span></p>
-<p class="t" style="left:557px;top:9525.9px;width:255px;"><span class="k23">06</span><span class="k24"> / Landmark-Led Directions</span></p>
-<p class="t" style="left:557px;top:9551.9px;width:255px;"><span class="k25">Familiar landmarks help riders recognise upcoming turns.</span></p>
-<p class="t" style="left:1133px;top:9685.9px;width:238px;"><span class="k23">08</span><span class="k24"> / Two Controls, Not Five</span></p>
-<p class="t" style="left:272px;top:9709.9px;width:255px;"><span class="k23">07</span><span class="k24"> / Familiar Control Positions</span></p>
-<p class="t" style="left:1133px;top:9711.9px;width:238px;"><span class="k25">Only volume and route preview stay on the map.</span></p>
-<p class="t" style="left:272px;top:9735.9px;width:255px;"><span class="k25">Consistent placement avoids disrupting learned habits.</span></p>
-<p class="t nw" style="left:115px;top:9954.1px;width:429px;"><span class="k0">Context-aware map zoom</span></p>
-<p class="t" style="left:95px;top:10011.1px;width:832px;"><span class="k1">The map adjusts its zoom based on the rider’s situation, showing the wider route when they need an overview and bringing the next turn into view when they’re on long stretches of road.</span></p>
-<p class="t nw" style="left:874px;top:10687.1px;width:412px;"><span class="k38">Before the ride — Route overview</span></p>
-<p class="t nw" style="left:222px;top:10687.1px;width:406px;"><span class="k38">During the ride — Upcoming turn</span></p>
-<p class="t" style="left:874px;top:10728.1px;width:440px;"><span class="k1">The map starts zoomed out so riders can see the route and </span><span class="k39">build the mental model of the map</span><span class="k1">. Once movement is detected, it zooms in for closer navigation.</span></p>
-<p class="t" style="left:222px;top:10728.1px;width:440px;"><span class="k1">On long, straight roads, the map zooms out to bring the next turn into view, </span><span class="k39">helping riders anticipate where the route changes without manually adjusting the map.</span></p>
-<p class="t nw" style="left:115px;top:11573px;width:246px;"><span class="k0">What I learned</span></p>
-<p class="t" style="left:769px;top:11665px;width:560px;"><span class="k45">Riders’ workarounds can point to simple design changes that make a big difference.</span></p>
-<p class="t" style="left:129px;top:11665px;width:560px;"><span class="k45">The right design choice depends on the situation. What works in one context may not work in another.</span></p>
-<p class="t nw" style="left:95px;top:11668px;width:17px;"><span class="k44">01</span></p>
-<p class="t nw" style="left:735px;top:11668px;width:18px;"><span class="k44">02</span></p>
-<p class="t" style="left:769px;top:11757px;width:560px;"><span class="k45">Making something easier to use doesn’t always mean making it easier to interact with. Sometimes, the goal is to reduce the need to use the phone.</span></p>
-<p class="t" style="left:129px;top:11757px;width:560px;"><span class="k45">Good design considers what the user is dealing with in the moment, not just the task they need to complete.</span></p>
-<p class="t nw" style="left:95px;top:11760px;width:18px;"><span class="k44">03</span></p>
-<p class="t nw" style="left:735px;top:11760px;width:18px;"><span class="k44">04</span></p>
+<p class="t" style="left:518px;top:6330px;width:248px;"><span class="k8">“Road blocked ahead. Let’s take the next left.”</span></p>
+<p class="t" style="left:95px;top:6335px;width:137px;"><span class="k13">03 / WARMER WHEN STRESSED</span></p>
+<p class="t" style="left:1058px;top:6372px;width:275px;"><span class="k10">KAI recalculates silently.</span></p>
+<p class="t nw" style="left:946.6px;top:6387px;width:18px;"><span class="k12">No</span></p>
+<p class="t nw" style="left:92px;top:7165.9px;width:464px;"><span class="k43">Designing the map</span></p>
+<p class="t nw" style="left:115px;top:7291.9px;width:195px;"><span class="k0">Wireframes</span></p>
+<p class="t" style="left:95px;top:7348.9px;width:900px;"><span class="k1">Five steps from Google Maps as riders use it today to the KAI screen. Each step removes or moves one thing.</span></p>
+<p class="t" style="left:111px;top:7893.9px;width:190px;"><span class="k26">Google Maps today - Baseline</span></p>
+<p class="t" style="left:372px;top:7893.9px;width:190px;"><span class="k26">Fewer labels - Less clutter</span></p>
+<p class="t" style="left:894px;top:7893.9px;width:190px;"><span class="k26">Icons back on right - Familiarity</span></p>
+<p class="t" style="left:1155px;top:7893.9px;width:190px;"><span class="k26">ETA reduced - KAI voice layer</span></p>
+<p class="t" style="left:633px;top:7893.9px;width:190px;"><span class="k26">Left side icons - Thumb reach</span></p>
+<p class="t nw" style="left:115px;top:8093.9px;width:124px;"><span class="k0">Final UI</span></p>
+<p class="t" style="left:95px;top:8150.9px;width:900px;"><span class="k1">The riding screen in day and night modes, and mounted on the bike. The labels mark the eight design decisions.</span></p>
+<p class="t" style="left:672px;top:8513.9px;width:280px;"><span class="k23">01</span><span class="k24"> / One-Tap Zomato Access</span></p>
+<p class="t" style="left:672px;top:8539.9px;width:280px;"><span class="k25">Returns riders to their active order quickly.</span></p>
+<p class="t" style="left:1122px;top:8835.9px;width:260px;"><span class="k23">03</span><span class="k24"> / Fewer Map Labels</span></p>
+<p class="t" style="left:325px;top:8852.9px;width:280px;"><span class="k23">02</span><span class="k24"> / High-Contrast Cyan Route</span></p>
+<p class="t" style="left:1122px;top:8861.9px;width:260px;"><span class="k25">Less clutter keeps attention on the route.</span></p>
+<p class="t" style="left:325px;top:8878.9px;width:280px;"><span class="k25">Stands out against the dark map at night.</span></p>
+<p class="t" style="left:1150px;top:9174.1px;width:255px;"><span class="k23">05</span><span class="k24"> / Purple Listening Cue</span></p>
+<p class="t" style="left:746.8px;top:9194.9px;width:260px;"><span class="k23">04</span><span class="k24"> / Destination Over ETA</span></p>
+<p class="t" style="left:1150px;top:9200.1px;width:255px;"><span class="k25">Distinguishes KAI’s listening state from the cyan route.</span></p>
+<p class="t" style="left:746.8px;top:9220.9px;width:260px;"><span class="k25">Keeps the delivery task in focus.</span></p>
+<p class="t" style="left:557px;top:9488.9px;width:255px;"><span class="k23">06</span><span class="k24"> / Landmark-Led Directions</span></p>
+<p class="t" style="left:557px;top:9514.9px;width:255px;"><span class="k25">Familiar landmarks help riders recognise upcoming turns.</span></p>
+<p class="t" style="left:1133px;top:9648.9px;width:238px;"><span class="k23">08</span><span class="k24"> / Two Controls, Not Five</span></p>
+<p class="t" style="left:272px;top:9672.9px;width:255px;"><span class="k23">07</span><span class="k24"> / Familiar Control Positions</span></p>
+<p class="t" style="left:1133px;top:9674.9px;width:238px;"><span class="k25">Only volume and route preview stay on the map.</span></p>
+<p class="t" style="left:272px;top:9698.9px;width:255px;"><span class="k25">Consistent placement avoids disrupting learned habits.</span></p>
+<p class="t nw" style="left:115px;top:9917.1px;width:429px;"><span class="k0">Context-aware map zoom</span></p>
+<p class="t" style="left:95px;top:9974.1px;width:832px;"><span class="k1">The map adjusts its zoom based on the rider’s situation, showing the wider route when they need an overview and bringing the next turn into view when they’re on long stretches of road.</span></p>
+<p class="t nw" style="left:874px;top:10650.1px;width:412px;"><span class="k38">Before the ride — Route overview</span></p>
+<p class="t nw" style="left:222px;top:10650.1px;width:406px;"><span class="k38">During the ride — Upcoming turn</span></p>
+<p class="t" style="left:874px;top:10691.1px;width:440px;"><span class="k1">The map starts zoomed out so riders can see the route and </span><span class="k39">build the mental model of the map</span><span class="k1">. Once movement is detected, it zooms in for closer navigation.</span></p>
+<p class="t" style="left:222px;top:10691.1px;width:440px;"><span class="k1">On long, straight roads, the map zooms out to bring the next turn into view, </span><span class="k39">helping riders anticipate where the route changes without manually adjusting the map.</span></p>
+<p class="t nw" style="left:115px;top:11536px;width:246px;"><span class="k0">What I learned</span></p>
+<p class="t" style="left:769px;top:11628px;width:560px;"><span class="k45">Riders’ workarounds can point to simple design changes that make a big difference.</span></p>
+<p class="t" style="left:129px;top:11628px;width:560px;"><span class="k45">The right design choice depends on the situation. What works in one context may not work in another.</span></p>
+<p class="t nw" style="left:95px;top:11631px;width:17px;"><span class="k44">01</span></p>
+<p class="t nw" style="left:735px;top:11631px;width:18px;"><span class="k44">02</span></p>
+<p class="t" style="left:769px;top:11720px;width:560px;"><span class="k45">Making something easier to use doesn’t always mean making it easier to interact with. Sometimes, the goal is to reduce the need to use the phone.</span></p>
+<p class="t" style="left:129px;top:11720px;width:560px;"><span class="k45">Good design considers what the user is dealing with in the moment, not just the task they need to complete.</span></p>
+<p class="t nw" style="left:95px;top:11723px;width:18px;"><span class="k44">03</span></p>
+<p class="t nw" style="left:735px;top:11723px;width:18px;"><span class="k44">04</span></p>
 </div>
 </div>
 
@@ -280,7 +280,7 @@ left?</span></p>
   function fit(){
     var k = w.clientWidth / 1440;
     c.style.transform = 'scale(' + k + ')';
-    w.style.height = (11899 * k) + 'px';
+    w.style.height = (11862 * k) + 'px';
   }
   fit(); addEventListener('resize', fit);
 
